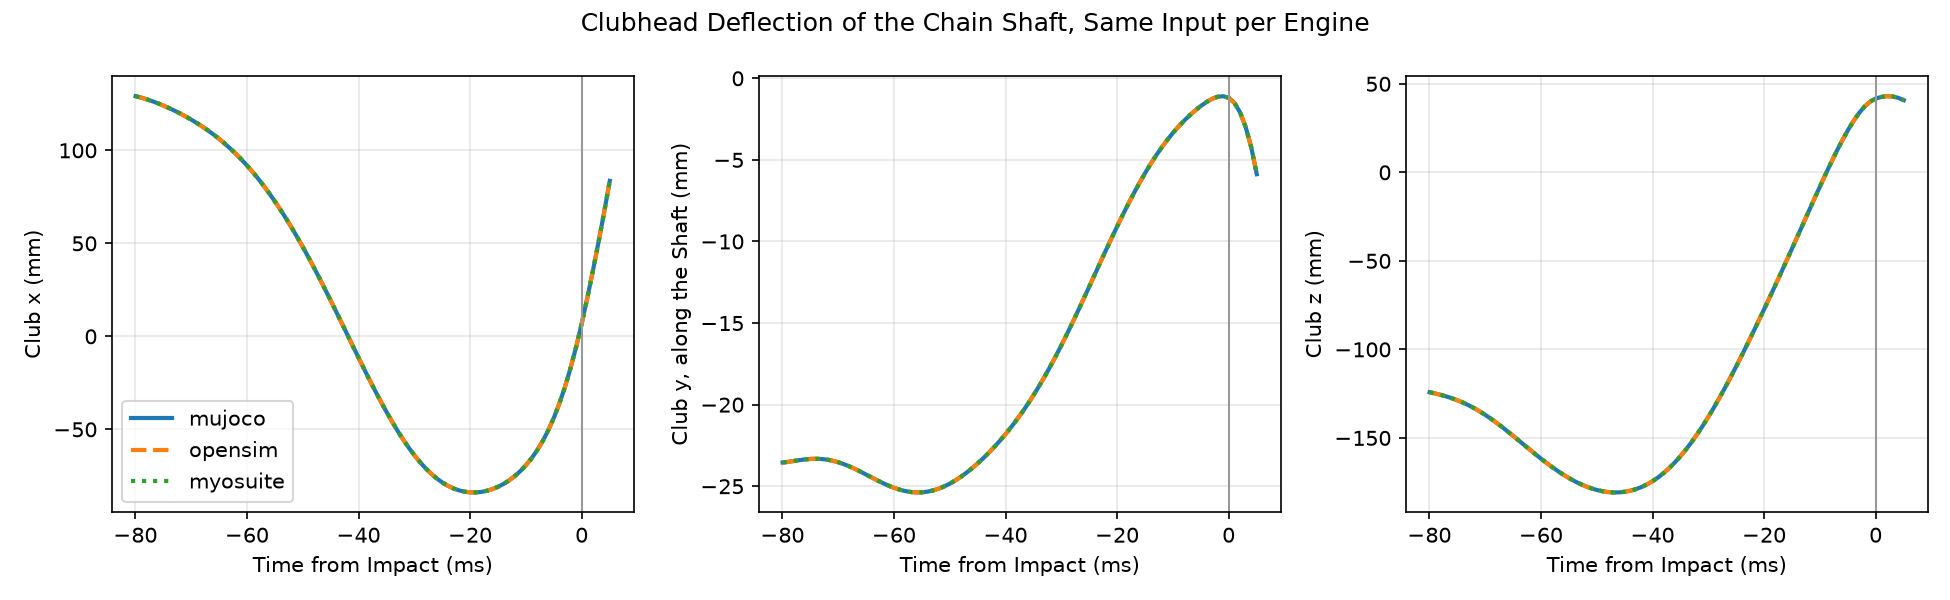
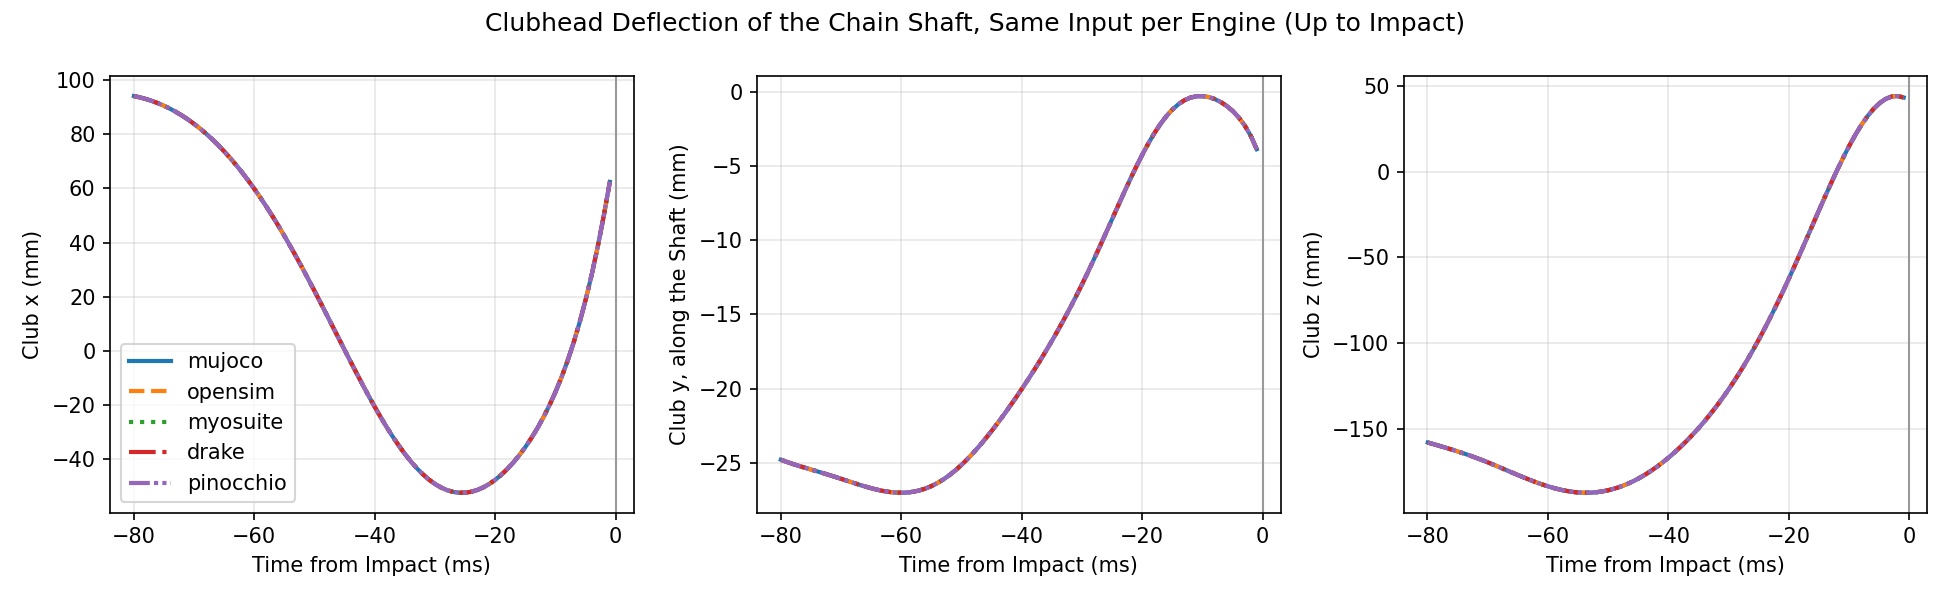
test(r11): per-engine chain-shaft receipt and overlay cover drake and pinocchio (Part of #12691) (#14692)
* test(r11): failing-first receipt gate covering every chain engine (Part of #12691)

* feat(r11): per-engine chain-shaft receipt and overlay cover drake and pinocchio (Part of #12691)

Same bundle replayed in mujoco, opensim, myosuite, drake and pinocchio from window start to contact; receipt gate is green.

* fix(r11): receipt headline, bundle provenance and window labels from one bundle; previous run kept (Part of #12691)

* test(r11): mark the evidence gate as a unit test (suite-marker ratchet) (Part of #12691)

* fix(r11): previous-bundle sections moved under previous_run; note numbers computed from the series (Part of #12691)

* fix(r11): ledger row for the refreshed chain receipt (LF blob digest) (Part of #12691)

---------

diff --git a/docs/development/full_body_models/evidence/flex_shaft/r11/chain_deflection.py b/docs/development/full_body_models/evidence/flex_shaft/r11/chain_deflection.py
@@ -25,10 +25,13 @@ viewers draw the club on the club body, so they show a straight shaft.
 from __future__ import annotations
 
 import argparse
+import hashlib
 import json
 from pathlib import Path
 
 import numpy as np
+
+from src.shared.python.contracts import require
 
 #: Window around the bundle's impact split time; the chain run diverges at +10 ms.
 WINDOW_S = (-0.08, 0.005)
@@ -98,6 +101,11 @@ def series(bundle_path: Path, engine: str, out: Path) -> None:
     print(out, "max |q - reference| =", float(np.abs(q - reference).max()))  # noqa: T201
 
 
+def _to_impact(run: dict) -> np.ndarray:
+    """Mask of samples up to contact; the chain run diverges just after it (R11)."""
+    return np.asarray(run["time_s"]) <= 0.0
+
+
 def plot(paths: list[Path], out: Path) -> None:
     import matplotlib
 
@@ -107,14 +115,21 @@ def plot(paths: list[Path], out: Path) -> None:
     runs = [dict(np.load(p)) for p in paths]
     fig, axes = plt.subplots(1, 3, figsize=(13, 4), sharex=True)
     labels = ("Club x (mm)", "Club y, along the Shaft (mm)", "Club z (mm)")
-    styles = {"mujoco": "-", "opensim": "--", "myosuite": ":"}
+    styles = {
+        "mujoco": "-",
+        "opensim": "--",
+        "myosuite": ":",
+        "drake": "-.",
+        "pinocchio": (0, (5, 1, 1, 1, 1, 1)),
+    }
     for run in runs:
         engine = str(run["engine"])
         for axis, ax in enumerate(axes):
+            keep = _to_impact(run)
             ax.plot(
-                1e3 * run["time_s"],
-                1e3 * run["deflection_m"][:, axis],
-                styles.get(engine, "-."),
+                1e3 * run["time_s"][keep],
+                1e3 * run["deflection_m"][keep, axis],
+                ls=styles.get(engine, "-."),
                 lw=2,
                 label=engine,
             )
@@ -124,10 +139,116 @@ def plot(paths: list[Path], out: Path) -> None:
         ax.set_ylabel(label)
         ax.grid(alpha=0.3)
     axes[0].legend()
-    fig.suptitle("Clubhead Deflection of the Chain Shaft, Same Input per Engine")
+    fig.suptitle(
+        "Clubhead Deflection of the Chain Shaft, Same Input per Engine (Up to Impact)"
+    )
     fig.tight_layout()
     fig.savefig(out, dpi=150)
     print(out)  # noqa: T201 - evidence script progress
+
+
+#: Top-level receipt sections measured on the previous bundle only.
+_PREVIOUS_RUN_KEYS = ("full_horizon_open_loop", "rigid_baseline_opensim")
+
+
+def _bundle_manifest(path: Path) -> dict:
+    with np.load(path, allow_pickle=False) as data:
+        return json.loads(str(data["manifest"]))
+
+
+def update_receipt(
+    paths: list[Path],
+    receipt: Path,
+    bundle: Path,
+    code_commit: str,
+    libraries: dict[str, str],
+) -> None:
+    """Rewrite the receipt's run-level numbers and per-engine block.
+
+    ``paths`` are engine series files of ONE bundle (``bundle``); MuJoCo is the
+    reference.  The previous headline run is kept under ``previous_run`` the
+    first time, never replaced silently.  Deflection differences are scored
+    from the window start to contact; coordinate errors cover the whole window
+    (to +5 ms, including the post-contact divergence).
+    """
+    runs = {str(r["engine"]): r for r in (dict(np.load(p)) for p in paths)}
+    require(
+        "mujoco" in runs,
+        "a mujoco series is required as the reference",
+    )
+    grid = runs["mujoco"]["time_s"]
+    for name, run in runs.items():
+        require(
+            np.array_equal(run["time_s"], grid),
+            f"{name} series is on another time grid than mujoco (mixed bundles?)",
+        )
+    keep = _to_impact(runs["mujoco"])
+    ref = runs["mujoco"]["deflection_m"][keep]
+    document = json.loads(receipt.read_text(encoding="utf-8"))
+    window = document["impact_window"]
+    if "previous_run" not in document:
+        document["previous_run"] = {
+            "code_commit": document["code_commit"],
+            "bundle": document["bundle"],
+            "impact_window": {
+                k: window[k]
+                for k in (
+                    "max_clubhead_deflection_m",
+                    "clubhead_deflection_at_impact_m",
+                    "max_abs_shaft_q_rad",
+                )
+            },
+        }
+    for key in _PREVIOUS_RUN_KEYS:  # measured on the previous bundle only
+        if key in document:
+            document["previous_run"][key] = document.pop(key)
+    provenance = _bundle_manifest(bundle)["provenance"]
+    document["code_commit"] = code_commit
+    document["bundle"] = {
+        "command": document["bundle"]["command"],
+        "sha256": hashlib.sha256(bundle.read_bytes()).hexdigest(),
+        "note": "bundle hashes depend on platform and library versions",
+        "steps": int(_bundle_manifest(bundle)["steps"]),
+        "dt_s": float(_bundle_manifest(bundle)["dt_s"]),
+        "impact_split_time_s": float(provenance["impact_split_time_s"]),
+        "max_pose_drift_m": float(provenance["max_pose_drift_m"]),
+        "libraries": libraries,
+    }
+    window["engines"] = {
+        name: {
+            "max_coordinate_error_vs_reference_rad": float(
+                run["max_coordinate_error_rad"]
+            ),
+            "max_deflection_difference_vs_mujoco_m": float(
+                np.abs(run["deflection_m"][keep] - ref).max()
+            ),
+        }
+        for name, run in runs.items()
+    }
+    at_impact = int(np.argmin(np.abs(grid[keep])))
+    window["clubhead_deflection_at_impact_m"] = [float(v) for v in ref[at_impact]]
+    window["max_clubhead_deflection_m"] = float(np.linalg.norm(ref, axis=1).max())
+    window["max_abs_shaft_q_rad"] = float(np.abs(runs["mujoco"]["shaft_q"][keep]).max())
+    norms = np.linalg.norm(ref, axis=1)
+    grid_keep = grid[keep]
+    at_minus_10 = float(norms[int(np.argmin(np.abs(grid_keep + 0.010)))])
+    window["engines_run_note"] = (
+        "run-level numbers, engine entries and the overlay are all from "
+        "`bundle` above (impact_split_time_s identical to previous_run); "
+        "full_horizon_open_loop and rigid_baseline_opensim moved into "
+        "previous_run because they were measured on that bundle. "
+        "max_deflection_difference_vs_mujoco_m is scored from the window start "
+        "to contact; max_coordinate_error_vs_reference_rad covers the whole "
+        "window to +5 ms including the post-contact divergence (R11). The "
+        "at-impact deflection differs from previous_run because it is read in "
+        "the last milliseconds before contact, where the chain deflection grows "
+        f"fast (norm {at_minus_10:.3f} m at -10 ms to {float(norms[at_impact]):.3f}"
+        " m at contact in this run) and differs between exports; the cause was "
+        "not isolated."
+    )
+    text = json.dumps(document, indent=2) + chr(10)
+    receipt.write_text(text, encoding="utf-8")
+    print(receipt)  # noqa: T201 - evidence script progress
 
 
 def main() -> None:
@@ -140,9 +261,20 @@ def main() -> None:
     many = sub.add_parser("plot")
     many.add_argument("--series", type=Path, nargs="+", required=True)
     many.add_argument("--out", type=Path, required=True)
+    upd = sub.add_parser("receipt")
+    upd.add_argument("--series", type=Path, nargs="+", required=True)
+    upd.add_argument("--receipt", type=Path, required=True)
+    upd.add_argument("--bundle", type=Path, required=True)
+    upd.add_argument("--code-commit", required=True)
+    upd.add_argument("--library", action="append", default=[], metavar="NAME=VERSION")
     args = parser.parse_args()
     if args.command == "series":
         series(args.bundle, args.engine, args.out)
+    elif args.command == "receipt":
+        libraries = dict(item.split("=", 1) for item in args.library)
+        update_receipt(
+            args.series, args.receipt, args.bundle, args.code_commit, libraries
+        )
     else:
         plot(args.series, args.out)
 

diff --git a/tests/cross_engine/test_flex_shaft_evidence_assets.py b/tests/cross_engine/test_flex_shaft_evidence_assets.py
@@ -1,0 +1,66 @@
+"""R11 (#12691) evidence gate: the chain-shaft receipt covers every chain engine.
+
+The parity tests in ``test_flex_shaft_parity.py`` run only where an engine is
+installed.  This gate is engine-free: it reads the committed receipt and fails
+closed when an engine in ``CHAIN_ENGINES`` has no impact-window deflection
+entry, when an entry differs from the MuJoCo chain by more than the tolerance,
+or when the overlay figure is missing.
+"""
+
+from __future__ import annotations
+
+import json
+from pathlib import Path
+
+import pytest
+
+from src.shared.python.motion_matching.club_shaft_chain import CHAIN_ENGINES
+
+pytestmark = pytest.mark.unit
+
+ROOT = Path(__file__).resolve().parents[2]
+EVIDENCE = ROOT / "docs/development/full_body_models/evidence/flex_shaft/r11"
+RECEIPT = EVIDENCE / "r11_chain_receipt.json"
+FIGURE = EVIDENCE / "r11_chain_deflection_impact_window.png"
+#: Evidence-gate bound (not a parity tolerance) on the Clubhead deflection
+#: difference to the MuJoCo chain from the window start to contact, metres.
+#: Recorded differences are at most 1.3e-10 m against deflections of 0.1 m or
+#: more; the replay parity tolerances stay in ``test_flex_shaft_parity.py``.
+DEFLECTION_ATOL_M = 1e-8
+#: The same bundle must have been replayed by every engine.
+REFERENCE_ENGINE = "mujoco"
+
+
+@pytest.fixture(scope="module")
+def receipt() -> dict:
+    return json.loads(RECEIPT.read_text(encoding="utf-8"))
+
+
+def test_receipt_has_an_impact_window_entry_for_every_chain_engine(
+    receipt: dict,
+) -> None:
+    recorded = set(receipt["impact_window"]["engines"])
+    assert recorded == set(CHAIN_ENGINES), (
+        f"missing {sorted(set(CHAIN_ENGINES) - recorded)}, "
+        f"unexpected {sorted(recorded - set(CHAIN_ENGINES))}"
+    )
+
+
+def test_each_engine_matches_the_mujoco_deflection(receipt: dict) -> None:
+    engines = receipt["impact_window"]["engines"]
+    assert engines[REFERENCE_ENGINE]["max_deflection_difference_vs_mujoco_m"] == 0.0
+    for name, entry in engines.items():
+        assert entry["max_deflection_difference_vs_mujoco_m"] <= DEFLECTION_ATOL_M, name
+
+
+def test_receipt_does_not_claim_a_supported_engine_is_refused(receipt: dict) -> None:
+    refusal = receipt["refusal"].lower()
+    for name in CHAIN_ENGINES:
+        assert name not in refusal, (
+            f"{name} supports the chain but the receipt says refused"
+        )
+    assert "simscape" in refusal
+
+
+def test_overlay_figure_is_committed() -> None:
+    assert FIGURE.is_file() and FIGURE.stat().st_size > 10_000

diff --git a/changes/12691-r11-per-engine-chain-shaft-impact-window.md b/changes/12691-r11-per-engine-chain-shaft-impact-window.md
@@ -1,0 +1,4 @@
+---
+issue: 12691
+summary: "R11: per-engine chain-shaft impact-window receipt and overlay now cover drake and pinocchio, with an engine-free gate"
+---
